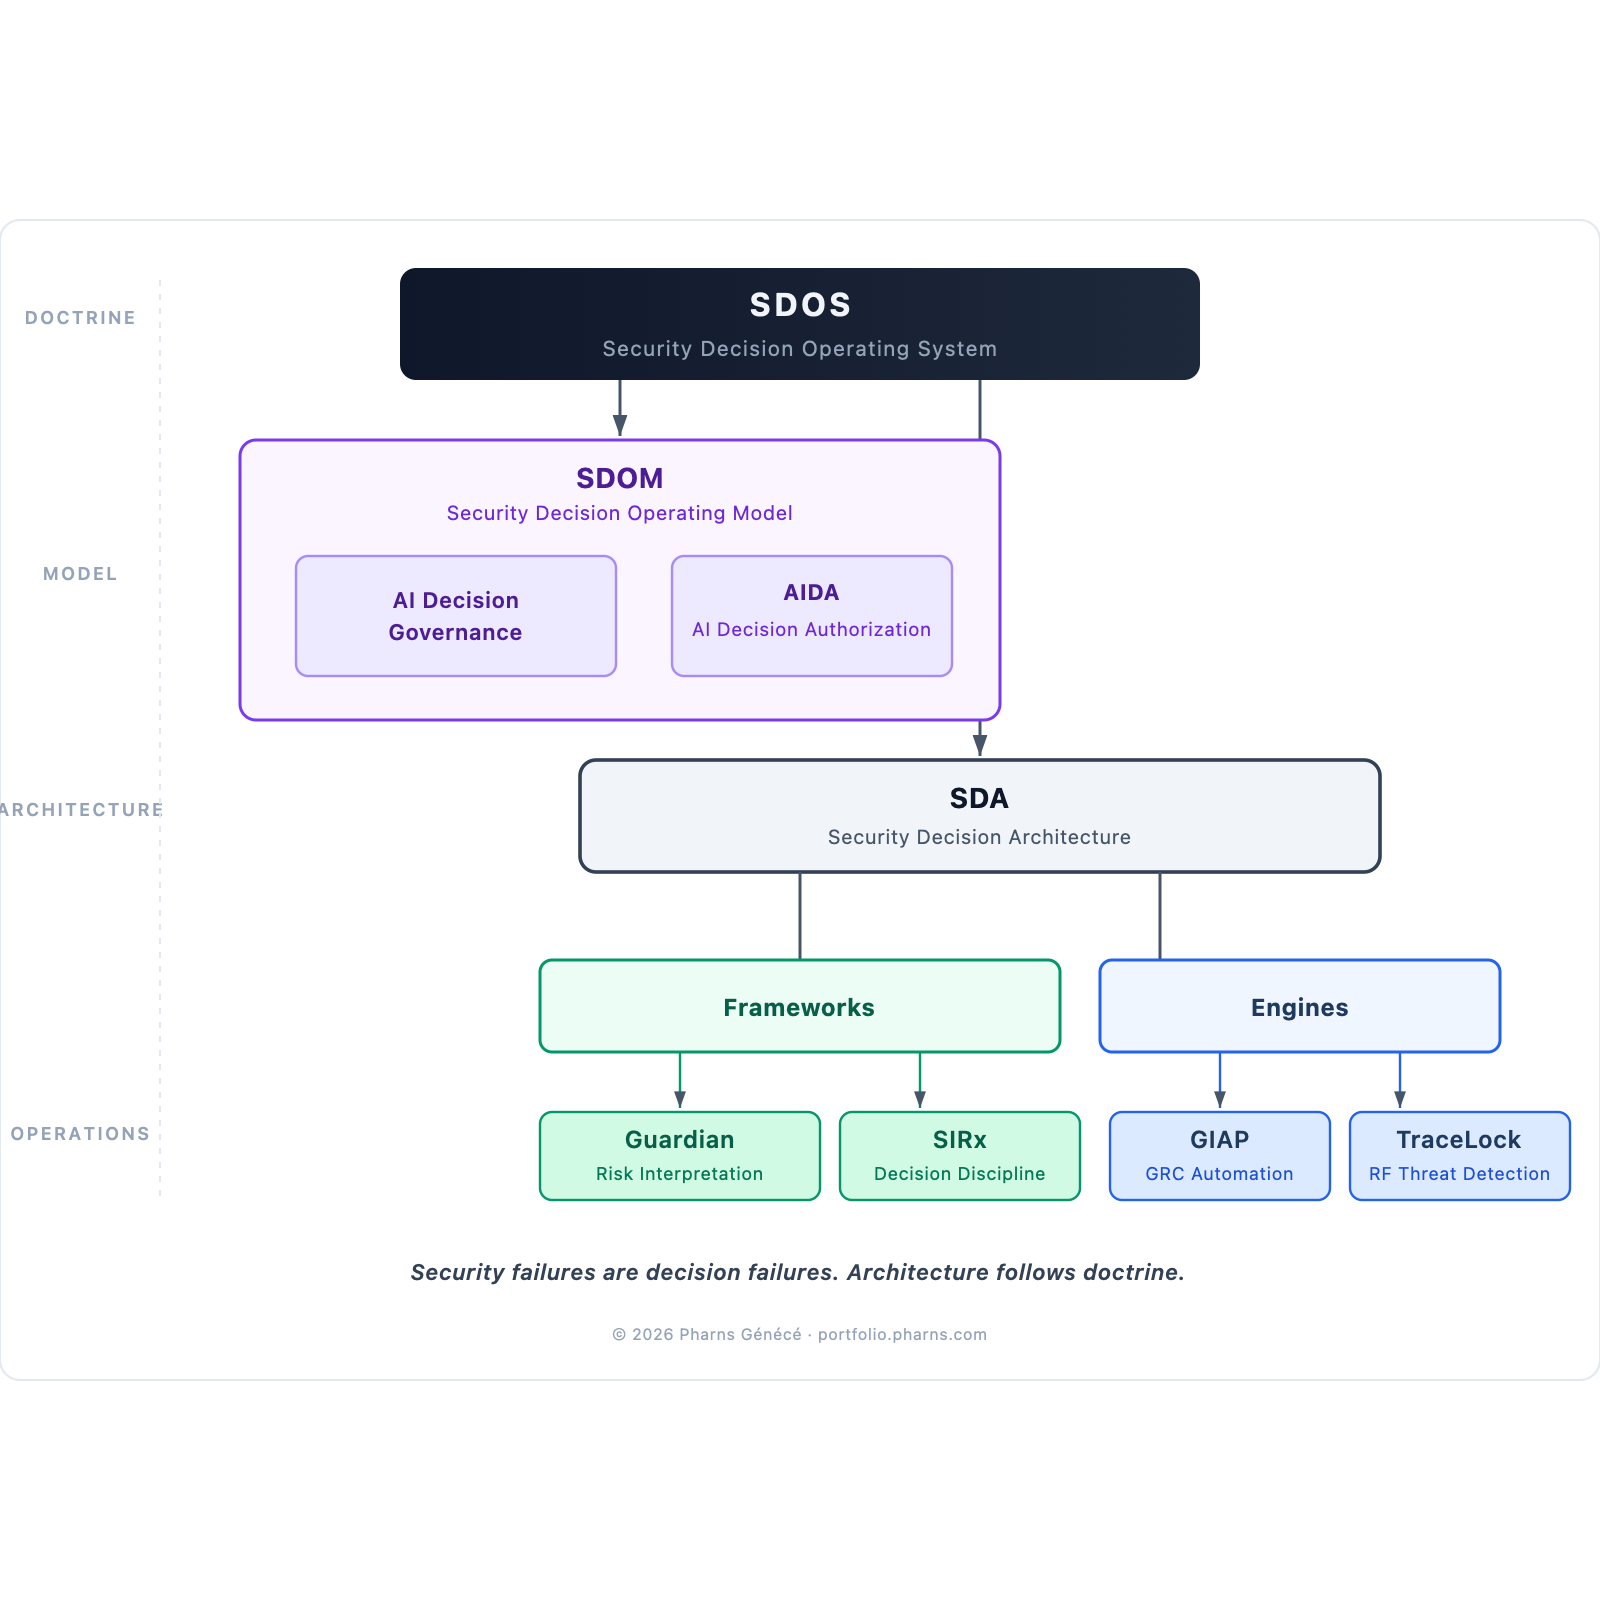
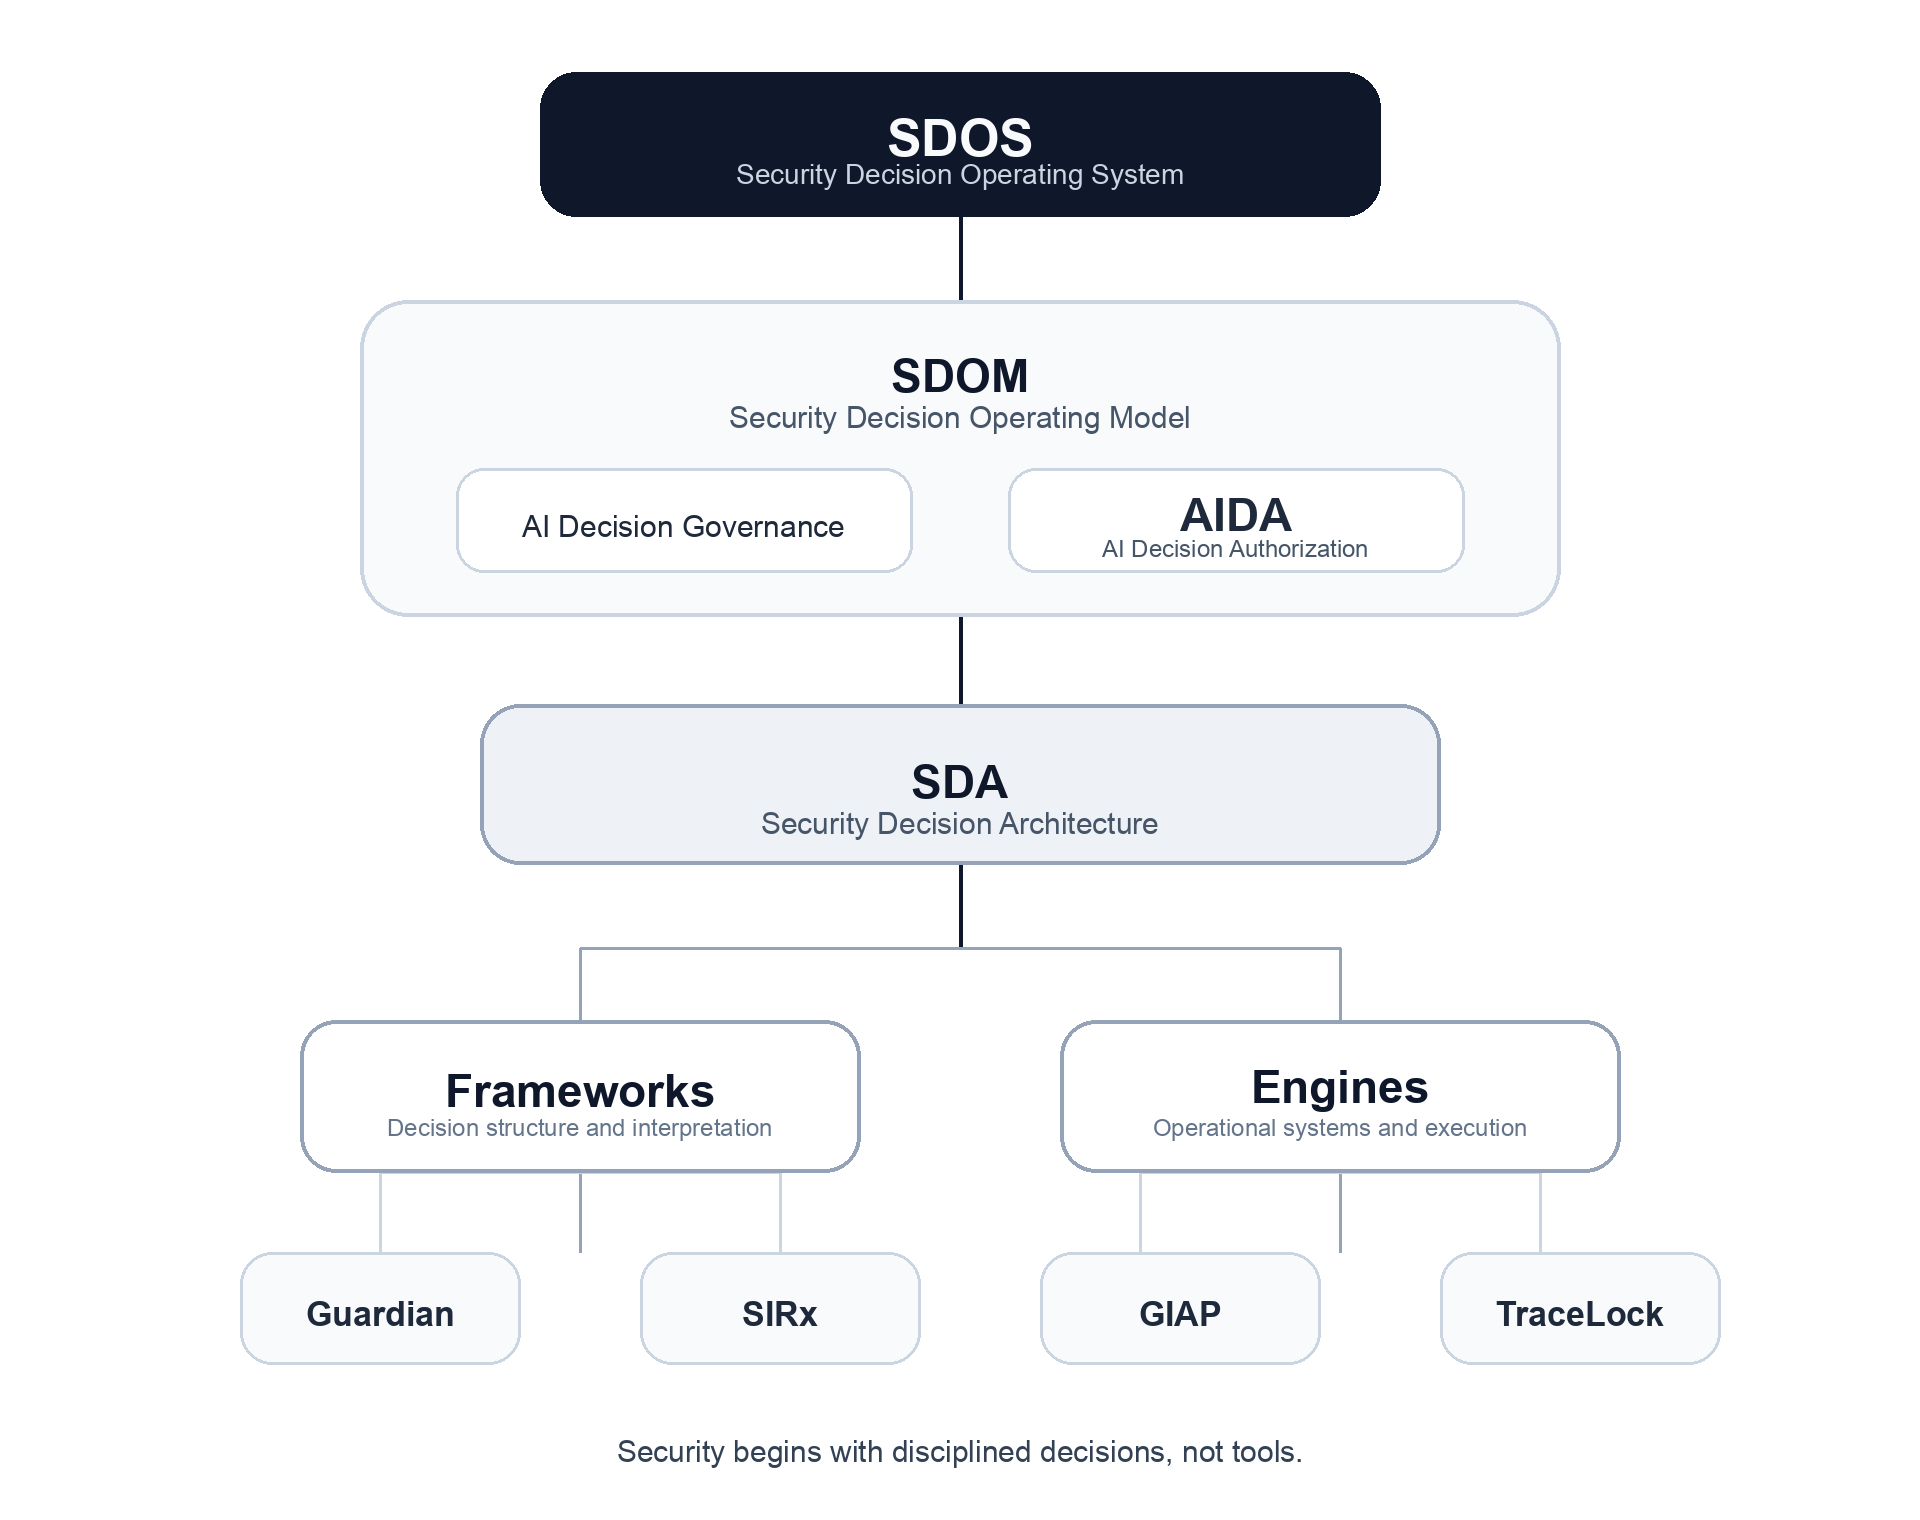
Refine SDOS signature diagram hierarchy

diff --git a/docs/architecture/security-decision-architecture.md b/docs/architecture/security-decision-architecture.md
@@ -25,16 +25,17 @@ Security failures are often decision failures, not just tooling failures. SDA ex
 
 ```text
 SDOS
-├── SDOM
-│   ├── AI Decision Governance
-│   └── AIDA
-├── SDA
-├── Frameworks
-│   ├── Guardian
-│   └── SIRx
-└── Engines
-    ├── GIAP
-    └── TraceLock
+└── SDOM
+    ├── AI Decision Governance
+    ├── AIDA
+    │   └── AI Decision Authorization
+    └── SDA
+        ├── Frameworks
+        │   ├── Guardian
+        │   └── SIRx
+        └── Engines
+            ├── GIAP
+            └── TraceLock
 ```
 
 ## The problem with traditional security architectures
@@ -76,16 +77,15 @@ Each layer plays a distinct role in transforming raw security signals into struc
         TL["TraceLock"]
 
         SDOS --> SDOM
-        SDOS --> SDA
-        SDOS --> F
-        SDOS --> E
-
         SDOM --> AIG
         SDOM --> AIDA
+        SDOM --> SDA
 
         F --> G
         F --> S
 
+        SDA --> F
+        SDA --> E
         E --> GIAP
         E --> TL
     ```
